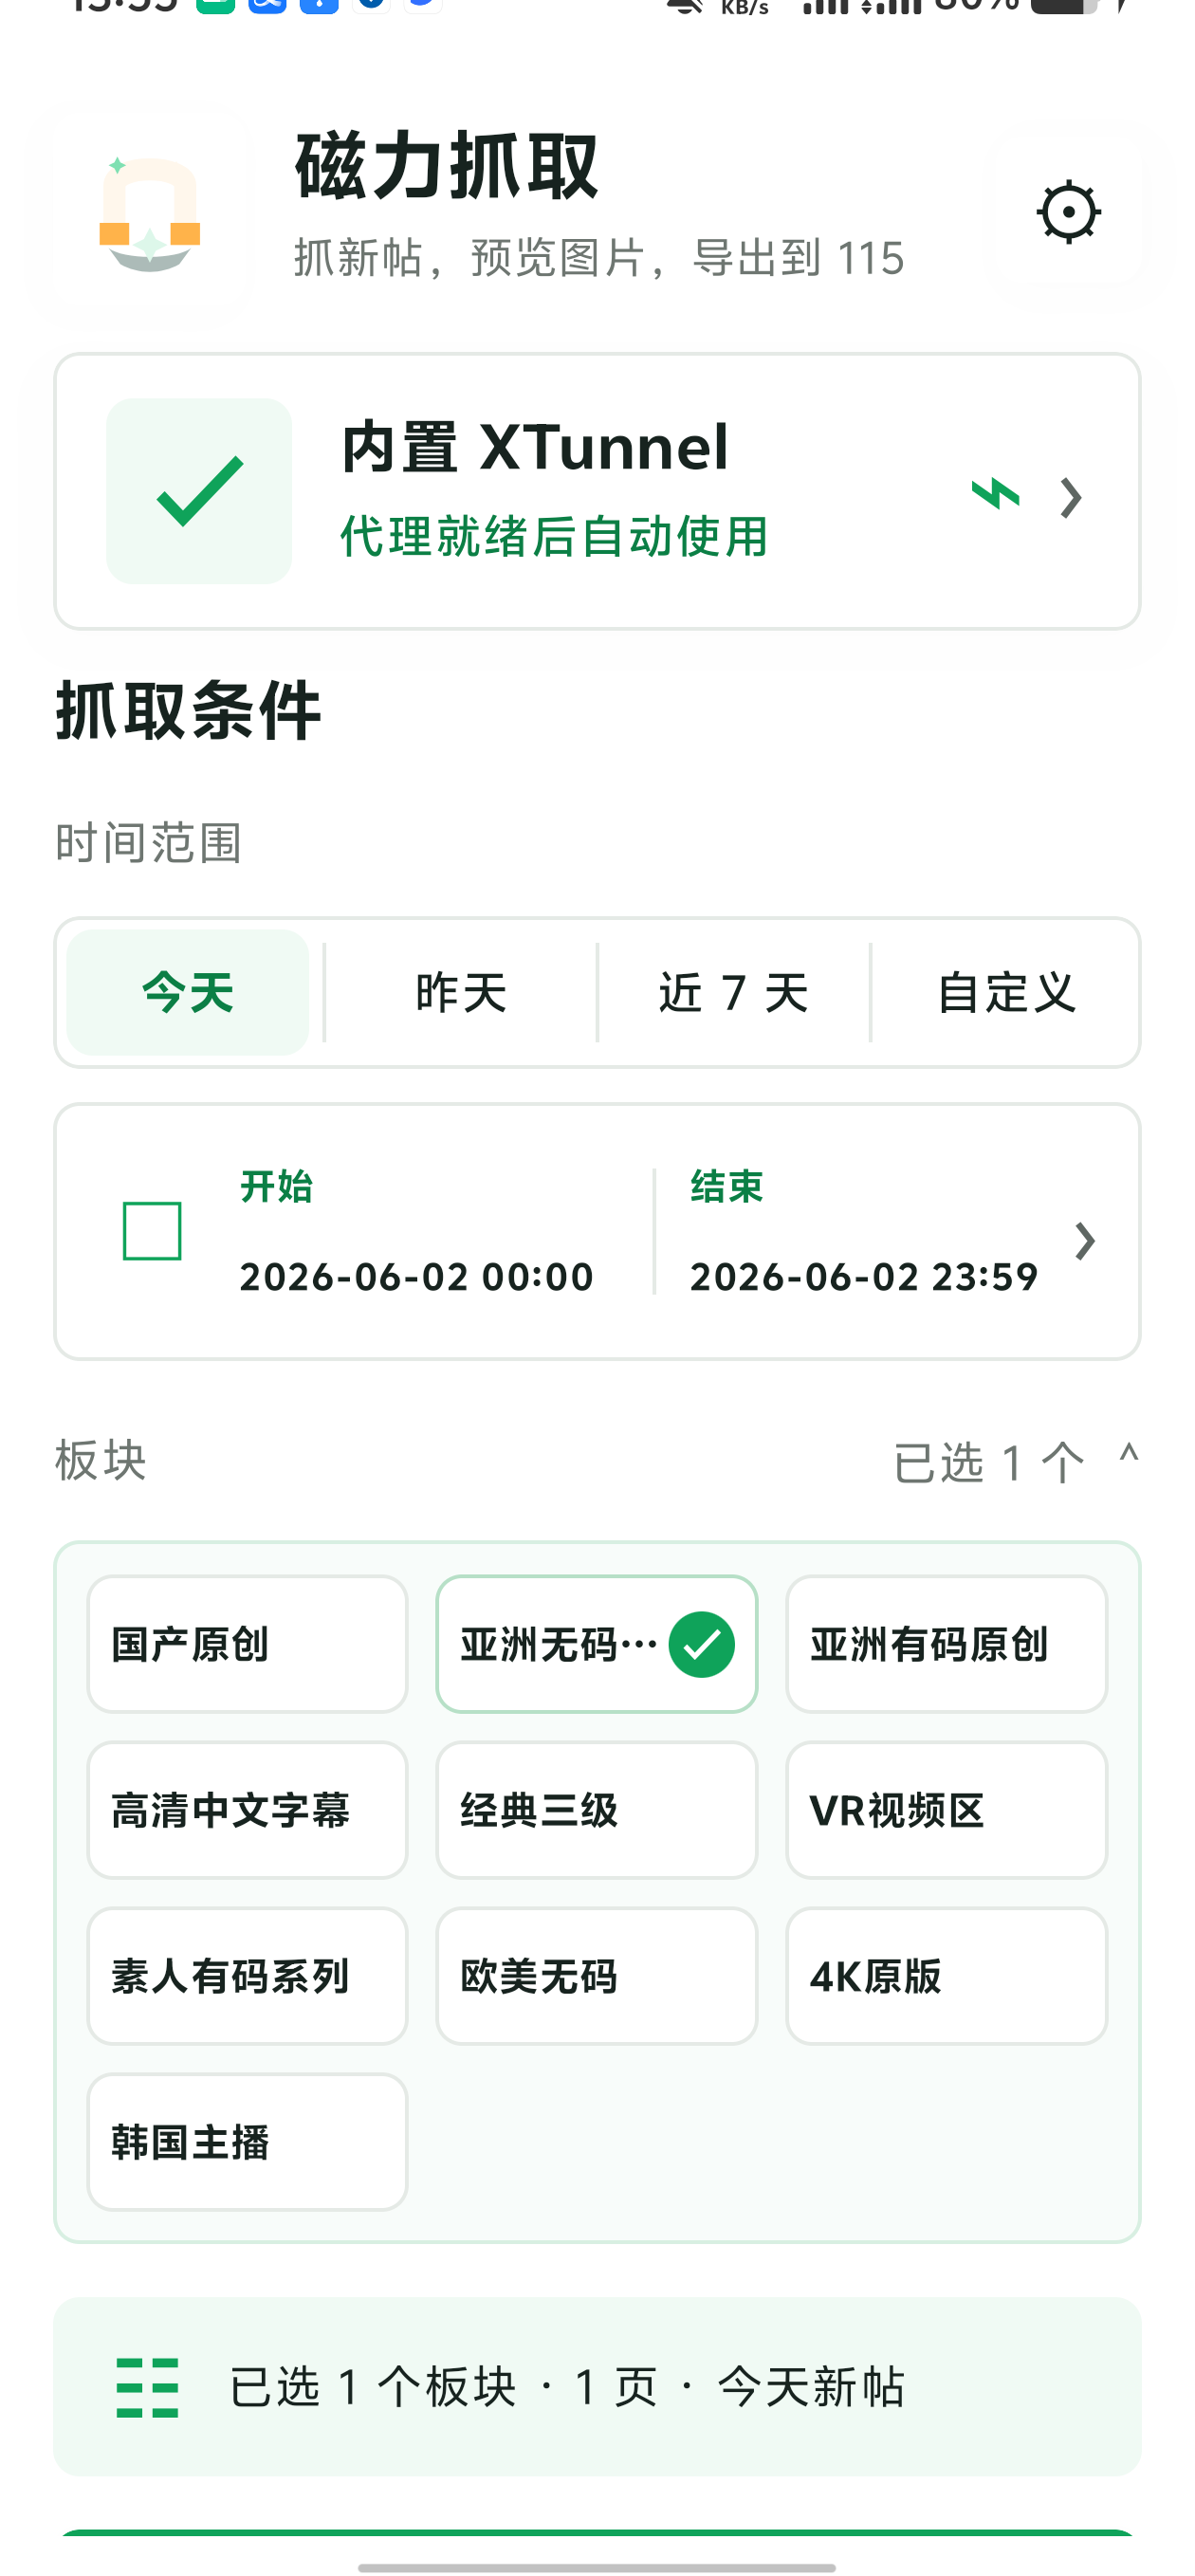
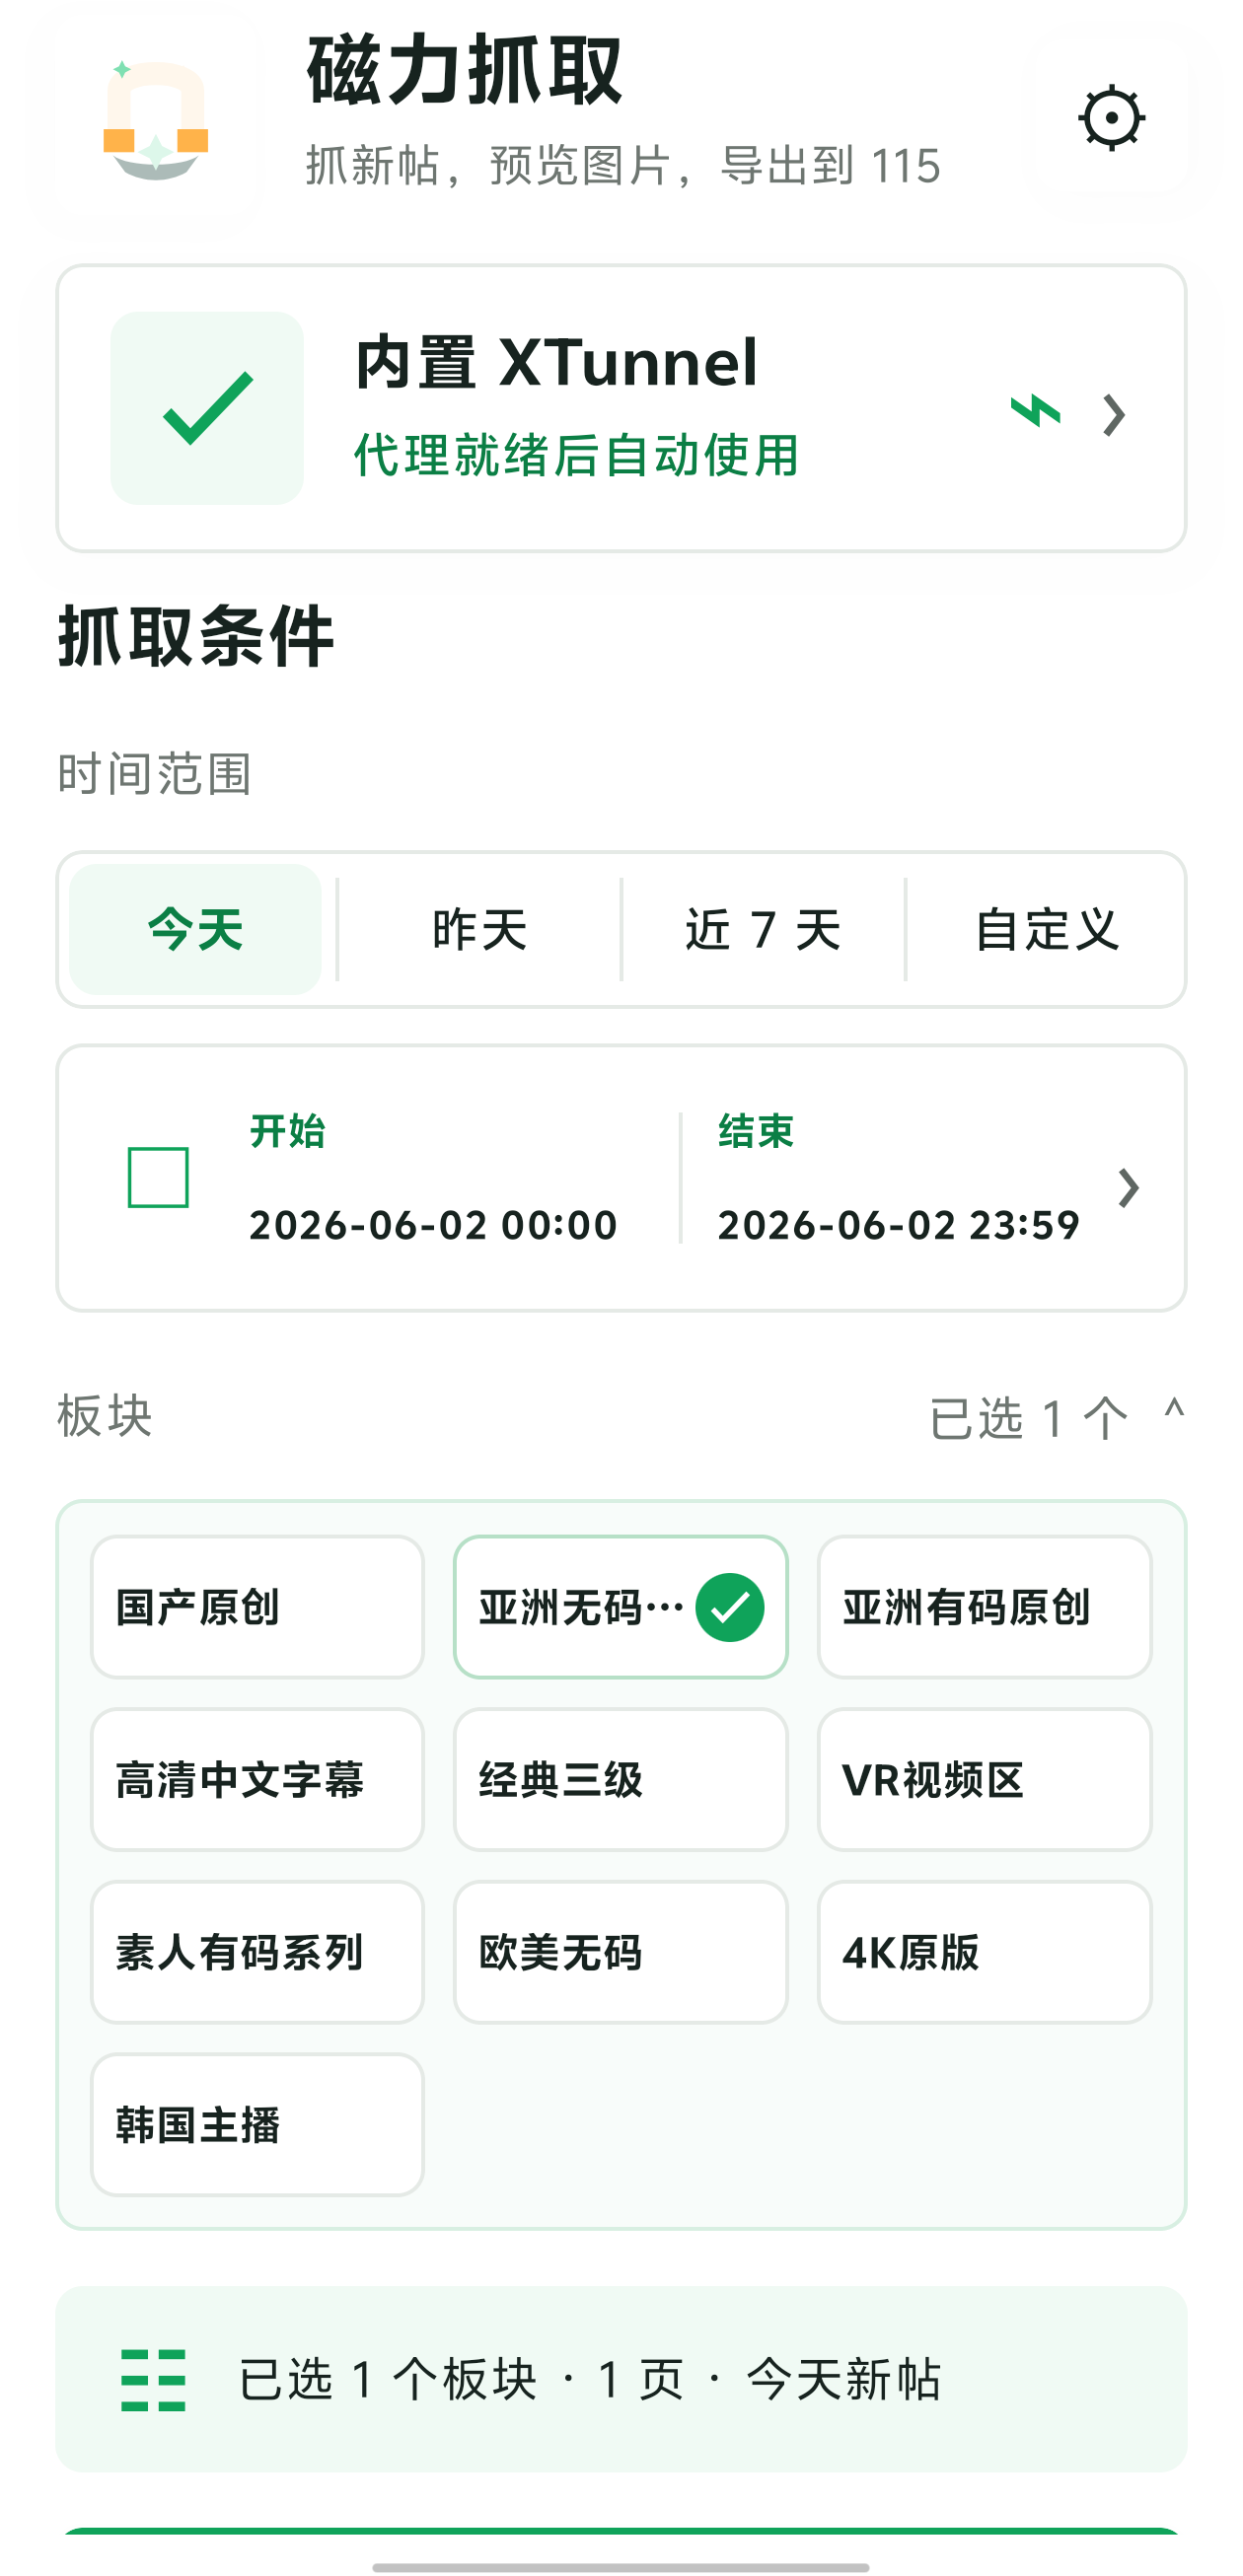
Refine public README

diff --git a/README.md b/README.md
@@ -1,273 +1,111 @@
 # MagnetCatcher
 
-`MagnetCatcher` 是一个 Android Gradle + Kotlin + Jetpack Compose 应用，用于在手机端选择论坛板块、按发帖时间抓取新帖、预览帖子图片、打开原帖，并导出可供 115 批量导入的磁力文本。
+<p align="center">
+  <a href="https://github.com/tttt123445/sehuatang_apk_search/releases"><img src="https://img.shields.io/badge/download-latest_release-0B8F5A?style=for-the-badge" alt="Download latest release"></a>
+</p>
 
-当前仓库已经迁移到标准 Android 单模块工程：根目录只负责 Gradle 配置，业务代码集中在 `app/` 模块。旧的 `android_app/` Java 工程已经移除，后续构建和维护都以 `./gradlew :app:assembleDebug` 为准。
+<p align="center">
+  <img src="https://img.shields.io/badge/platform-Android_7.0+-3DDC84?logo=android&logoColor=white" alt="Android 7.0+">
+  <img src="https://img.shields.io/badge/Kotlin-Compose-7F52FF?logo=kotlin&logoColor=white" alt="Kotlin Compose">
+  <img src="https://img.shields.io/badge/build-Gradle-02303A?logo=gradle&logoColor=white" alt="Gradle">
+  <img src="https://img.shields.io/badge/ABI-arm64--v8a-2B6CB0" alt="arm64-v8a">
+</p>
 
-## 运行截图
+MagnetCatcher 是一个 Android 端磁力链接整理工具。它把论坛新帖抓取、图片预览、原帖跳转、链接去重和 115 批量导出放在同一个移动端流程里，适合需要在手机上快速筛选并整理磁力文本的场景。
 
-![MagnetCatcher 运行截图](docs/screenshots/android-ui-final-running.png)
+本仓库提供可直接安装的 APK Release 包，也开放 Kotlin、Jetpack Compose、OkHttp 和 NDK/JNI 相关源码，方便审阅、学习和二次开发。
 
-## 核心能力
+<p align="center">
+  <img src="docs/screenshots/android-ui-final-running.png" width="360" alt="MagnetCatcher Android 界面截图">
+</p>
 
-- 板块选择：内置常用 BT 区板块，并持久化用户选择。
-- 时间抓取：支持今天、昨天、近 7 天和自定义起始日期。
-- 帖子解析：抓取列表页，再并发进入帖子页解析标题、发布时间、磁力和图片。
-- 图片体验：结果缩略图、全屏预览、上一张/下一张、失败重试和原帖跳转。
-- 导出流程：所选磁力去重后按批次复制或通过 Android 分享导出。
-- 网络模式：默认使用系统 VPN/直连，可选启用内置 XTunnel，本地代理就绪后才切换。
-- 本地缓存：保存最近抓取结果、Cookie、用户设置和图片缓存。
+## 获取安装包
 
-## 架构图
+推荐直接使用 Release 包：
+
+1. 打开 [Releases](https://github.com/tttt123445/sehuatang_apk_search/releases)。
+2. 下载 `magnet-catcher.apk`。
+3. 在 Android 设备上允许安装未知来源应用。
+4. 安装后打开「磁力抓取 新版」。
+
+当前公开包面向 `arm64-v8a` 设备，要求 Android 7.0 或更高版本。
+
+## 功能亮点
+
+| 能力 | 说明 |
+| --- | --- |
+| 时间抓取 | 支持今天、昨天、近 7 天和自定义起始日期，适合按发帖时间筛选新内容。 |
+| 板块选择 | 内置常用板块，选择结果会自动保存，下次打开继续使用。 |
+| 帖子解析 | 先解析列表页，再进入帖子页提取标题、发布时间、摘要、磁力链接和图片地址。 |
+| 图片预览 | 支持缩略图、图片预览、上一张/下一张、失败重试和原帖跳转。 |
+| 批量导出 | 自动去重磁力链接，并按每批 50 条生成文本，便于复制或分享到 115。 |
+| 网络模式 | 默认使用系统 VPN/直连，也可启用内置 XTunnel；异常时会回退到系统网络。 |
+| 本地缓存 | 保存最近抓取结果、Cookie、用户设置和图片缓存，减少重复操作。 |
+
+## 使用流程
 
 ```mermaid
-flowchart TD
-    User["用户操作"]
-    Activity["MainActivity"]
-    Compose["MagnetCatcherApp / Compose UI"]
-    VM["MainViewModel"]
-    Repo["CrawlerRepository"]
-    Data["SettingsStore / CookieStore / LibraryStore / ImageCache"]
-    Http["CrawlerHttpClient (OkHttp)"]
-    Parsers["ForumParser / ThreadParser / DateParser / UrlTools / HtmlText"]
-    XTunnel["XTunnelManager"]
-    Native["XTunnelNative + xtbridge.c"]
-    LibGo["libgo.so + embed.data"]
-    Site["论坛页面 / 图片资源"]
-    Export["Clipboard / Android Share"]
-
-    User --> Activity
-    Activity --> Compose
-    Compose --> VM
-    VM --> Repo
-    VM --> Data
-    VM --> Export
-    Repo --> Data
-    Repo --> Http
-    Repo --> Parsers
-    Http --> Data
-    Http --> XTunnel
-    XTunnel --> Native
-    Native --> LibGo
-    Http --> Site
-    Parsers --> Repo
+flowchart LR
+    A["选择时间范围"] --> B["选择板块"]
+    B --> C["开始抓取"]
+    C --> D["预览图片和原帖"]
+    D --> E["取消不需要的结果"]
+    E --> F["复制或分享导出文本"]
 ```
 
-## 项目结构
+1. 选择抓取时间范围，例如今天、昨天、近 7 天或自定义日期。
+2. 选择需要关注的板块。
+3. 点击开始抓取，等待列表页和帖子页解析完成。
+4. 在结果列表中预览图片、打开原帖或取消不需要的帖子。
+5. 使用复制到 115 或分享导出生成磁力文本。
 
-```text
-.
-├── README.md
-├── build.gradle.kts
-├── settings.gradle.kts
-├── gradlew
-├── gradle/
-├── app/
-│   ├── build.gradle.kts
-│   └── src/
-│       ├── main/
-│       │   ├── AndroidManifest.xml
-│       │   ├── jni/
-│       │   ├── kotlin/com/example/magnetcatcher/
-│       │   └── res/
-│       └── test/kotlin/com/example/magnetcatcher/
-├── docs/
-└── openspec/
+## 技术栈
+
+- Kotlin + Jetpack Compose：负责 Android 原生界面和状态管理。
+- OkHttp + Kotlin Coroutines：负责抓取请求、图片请求、重试和并发调度。
+- Coil：负责图片加载与缓存展示。
+- SharedPreferences + 本地 JSON：保存设置、Cookie 和最近结果。
+- NDK/JNI：桥接内置 XTunnel 运行时。
+- Gradle Android Plugin：管理单模块 Android 工程构建。
+
+## 源码构建
+
+只想安装使用时，建议下载 Release APK。源码构建适合需要审阅代码、修改逻辑或自行打包的开发者。
+
+```bash
+git clone https://github.com/tttt123445/sehuatang_apk_search.git
+cd sehuatang_apk_search
+./gradlew :app:test
+./gradlew :app:assembleDebug
 ```
 
-## 文件作用
-
-### 根目录
-
-| 文件 | 作用 |
-| --- | --- |
-| `README.md` | 项目说明、架构图、运行截图、构建方式和文件清单。 |
-| `.gitignore` | 忽略本地密钥、构建产物、Gradle 缓存、release 输出和临时文件。 |
-| `settings.gradle.kts` | 定义 Gradle 插件仓库、依赖仓库、根工程名 `MagnetCatcher`，并引入 `:app` 模块。 |
-| `build.gradle.kts` | 根工程 Gradle 配置，声明 Android、Compose 和 Kotlin 插件版本入口。 |
-| `gradlew` | Gradle Wrapper 启动脚本，用于在本机执行构建和测试。 |
-| `gradle/libs.versions.toml` | 统一管理 AGP、Kotlin、Compose、OkHttp、Coil、JUnit 等依赖版本。 |
-| `gradle/wrapper/gradle-wrapper.properties` | Gradle Wrapper 的发行版和下载配置。 |
-
-### Android 应用模块
-
-| 文件 | 作用 |
-| --- | --- |
-| `app/build.gradle.kts` | Android 应用模块配置，声明 SDK/NDK、Compose、依赖、JNI 构建和 XTunnel 本地文件复制任务。 |
-| `app/src/main/AndroidManifest.xml` | Android 清单文件，声明网络权限、外部浏览器查询、应用图标、主题和 `MainActivity`。 |
-| `app/src/main/jni/Android.mk` | NDK build 配置，编译 `xtbridge` JNI 动态库。 |
-| `app/src/main/jni/Application.mk` | NDK ABI 和最低平台配置，目前只构建 `arm64-v8a`。 |
-| `app/src/main/jni/xtbridge.c` | JNI 桥接代码，通过 `dlopen/dlsym` 调用 XTunnel `libgo.so` 暴露的启动、停止、状态和配置函数。 |
-
-### Kotlin 入口和常量
-
-| 文件 | 作用 |
-| --- | --- |
-| `app/src/main/kotlin/com/example/magnetcatcher/MainActivity.kt` | Android Activity 入口，加载 Compose UI，并处理 Toast、复制、分享和外部打开链接事件。 |
-| `app/src/main/kotlin/com/example/magnetcatcher/AppConstants.kt` | 全局常量，包括基础 URL、直连 URL、超时、代理端口、导出批大小、缩略图尺寸和 XTunnel 参数。 |
-
-### 数据模型
-
-| 文件 | 作用 |
-| --- | --- |
-| `app/src/main/kotlin/com/example/magnetcatcher/model/Models.kt` | 定义板块、帖子引用、抓取结果项、导出批次、抓取请求和失败统计等业务模型。 |
-| `app/src/main/kotlin/com/example/magnetcatcher/model/StatusUpdate.kt` | 定义状态提示的等级和状态卡片更新数据。 |
-
-### 数据存储
-
-| 文件 | 作用 |
-| --- | --- |
-| `app/src/main/kotlin/com/example/magnetcatcher/data/SettingsStore.kt` | 基于 `SharedPreferences` 保存网络模式、代理端口、抓取页数、起始时间、板块选择和板块列表。 |
-| `app/src/main/kotlin/com/example/magnetcatcher/data/CookieStore.kt` | 保存并拼装 HTTP Cookie，供抓取请求和 WebView 原帖打开复用。 |
-| `app/src/main/kotlin/com/example/magnetcatcher/data/LibraryStore.kt` | 将最近抓取到的帖子列表保存到应用私有目录 `library.json`，启动时恢复结果。 |
-| `app/src/main/kotlin/com/example/magnetcatcher/data/ImageCache.kt` | 图片内存缓存和磁盘缓存，支持采样解码，并用临时文件避免写入半截缓存。 |
-
-### 业务和网络
-
-| 文件 | 作用 |
-| --- | --- |
-| `app/src/main/kotlin/com/example/magnetcatcher/domain/CrawlerRepository.kt` | 抓取主流程：检查访问、构造列表页 URL、解析帖子引用、并发抓取帖子详情、按时间过滤并保存结果。 |
-| `app/src/main/kotlin/com/example/magnetcatcher/domain/ExportFormatter.kt` | 将所选帖子里的磁力去重、分页分批，生成复制或分享给 115 的纯文本。 |
-| `app/src/main/kotlin/com/example/magnetcatcher/network/CrawlerHttpClient.kt` | OkHttp 封装，负责 HTML 和图片请求、默认请求头、Cookie 收集、重试、响应大小限制和代理切换。 |
-| `app/src/main/kotlin/com/example/magnetcatcher/network/HttpRuntime.kt` | 定义 Cookie 存储和代理控制接口，降低网络层对具体存储/XTunnel 实现的耦合。 |
-
-### HTML/URL 解析
-
-| 文件 | 作用 |
-| --- | --- |
-| `app/src/main/kotlin/com/example/magnetcatcher/parser/ForumParser.kt` | 解析论坛列表页里的帖子链接、标题、发布时间和置顶状态，也能从移动端 JSON 中提取板块列表。 |
-| `app/src/main/kotlin/com/example/magnetcatcher/parser/ThreadParser.kt` | 解析帖子页标题、发布时间、正文摘要、磁力链接和图片地址。 |
-| `app/src/main/kotlin/com/example/magnetcatcher/parser/DateParser.kt` | 统一处理 `2026-06-02 00:00`、今天/昨天/前天、几分钟前等时间格式，并转换为上海时区时间戳。 |
-| `app/src/main/kotlin/com/example/magnetcatcher/parser/HtmlText.kt` | HTML 文本清洗、实体解码、正则首匹配、整数解析和磁力链接规范化工具。 |
-| `app/src/main/kotlin/com/example/magnetcatcher/parser/UrlTools.kt` | URL 绝对化、原帖直连域名转换、图片候选 URL 生成和 thread id 提取。 |
-
-### Compose UI
-
-| 文件 | 作用 |
-| --- | --- |
-| `app/src/main/kotlin/com/example/magnetcatcher/ui/MagnetCatcherApp.kt` | Compose 应用根组件，配置 Material 主题，收集弹窗状态并挂载主界面、预览、原帖 WebView 和日期选择器。 |
-| `app/src/main/kotlin/com/example/magnetcatcher/ui/MainScreen.kt` | 主屏幕布局，组合顶部标题、网络卡片、抓取条件、结果概览、开发者选项和帖子列表。 |
-| `app/src/main/kotlin/com/example/magnetcatcher/ui/MainViewModel.kt` | UI 状态和交互中枢，负责设置保存、抓取任务、XTunnel 预热、图片预览、原帖打开、复制和分享事件。 |
-| `app/src/main/kotlin/com/example/magnetcatcher/ui/MainUiState.kt` | 主界面、网络面板、抓取面板、结果面板、开发者面板和弹窗的 UI state 定义。 |
-| `app/src/main/kotlin/com/example/magnetcatcher/ui/CapturePanel.kt` | 抓取条件区域，包括时间范围分段控件、日期选择、板块选择和开始抓取按钮。 |
-| `app/src/main/kotlin/com/example/magnetcatcher/ui/ResultsPanel.kt` | 结果概览、开发者选项、导出按钮、帖子卡片、缩略图加载和结果统计。 |
-| `app/src/main/kotlin/com/example/magnetcatcher/ui/Dialogs.kt` | 图片预览弹窗、原帖 WebView 弹窗、Cookie 注入和 WebView 代理覆盖。 |
-| `app/src/main/kotlin/com/example/magnetcatcher/ui/CommonUi.kt` | 复用的卡片、标签和数字输入框组件。 |
-| `app/src/main/kotlin/com/example/magnetcatcher/ui/ThreadWebViewConfig.kt` | 原帖 WebView 的代理规则、Cookie 目标域和 Cookie header 拆分逻辑。 |
-
-### XTunnel
-
-| 文件 | 作用 |
-| --- | --- |
-| `app/src/main/kotlin/com/example/magnetcatcher/xtunnel/XTunnelNative.kt` | 加载 `libgo.so` 和 `libxtbridge.so`，声明 JNI external 方法。 |
-| `app/src/main/kotlin/com/example/magnetcatcher/xtunnel/XTunnelManager.kt` | 管理内置 XTunnel 生命周期、单飞启动、端口健康检查、失败冷却、代理对象和直连回退提示。 |
-
-### Android 资源
-
-| 文件 | 作用 |
-| --- | --- |
-| `app/src/main/res/drawable/ic_magnet_logo.xml` | 应用内顶部展示的磁力 Logo 矢量图。 |
-| `app/src/main/res/drawable/ic_launcher_foreground.xml` | 启动图标前景矢量资源。 |
-| `app/src/main/res/values/colors.xml` | Android 图标和主题相关颜色。 |
-| `app/src/main/res/values/styles.xml` | 应用主题样式，关闭 ActionBar 并适配 Compose Activity。 |
-| `app/src/main/res/mipmap-anydpi/ic_launcher.xml` | 自适应启动图标配置。 |
-| `app/src/main/res/mipmap-anydpi/ic_launcher_round.xml` | 自适应圆形启动图标配置。 |
-| `app/src/main/res/mipmap-anydpi-v26/ic_launcher.xml` | Android 8.0+ 自适应启动图标配置。 |
-| `app/src/main/res/mipmap-anydpi-v26/ic_launcher_round.xml` | Android 8.0+ 圆形自适应启动图标配置。 |
-
-### 单元测试
-
-| 文件 | 作用 |
-| --- | --- |
-| `app/src/test/kotlin/com/example/magnetcatcher/domain/ExportFormatterTest.kt` | 覆盖磁力去重和批次导出行为。 |
-| `app/src/test/kotlin/com/example/magnetcatcher/network/CrawlerHttpClientTest.kt` | 覆盖请求头、Cookie 收集、默认 Referer 和 HTML 响应大小限制。 |
-| `app/src/test/kotlin/com/example/magnetcatcher/parser/DateParserTest.kt` | 覆盖中文日期规范化、相对时间解析和预设起始时间。 |
-| `app/src/test/kotlin/com/example/magnetcatcher/parser/ForumParserTest.kt` | 覆盖列表页帖子解析和移动端 JSON 板块解析。 |
-| `app/src/test/kotlin/com/example/magnetcatcher/parser/ThreadParserTest.kt` | 覆盖帖子标题、磁力、图片和标题兜底解析。 |
-| `app/src/test/kotlin/com/example/magnetcatcher/ui/ThreadWebViewConfigTest.kt` | 覆盖 WebView Cookie 目标域、Cookie 拆分和代理开关规则。 |
-
-### 文档和截图
-
-| 文件 | 作用 |
-| --- | --- |
-| `docs/mockups/android-ui-redesign-half.svg` | Android UI 改版过程中的半屏设计稿。 |
-| `docs/screenshots/android-ui-current.png` | 当前主界面状态截图。 |
-| `docs/screenshots/android-ui-date-picker.png` | 日期选择器运行截图。 |
-| `docs/screenshots/android-ui-final-installed.png` | APK 安装后验证截图。 |
-| `docs/screenshots/android-ui-final-running.png` | README 中使用的最终运行截图。 |
-| `docs/screenshots/android-ui-fixed-final.png` | 修复后的最终主界面截图。 |
-| `docs/screenshots/android-ui-fixed-running.png` | 修复后的运行状态截图。 |
-| `docs/screenshots/android-ui-forum-collapsed.png` | 板块折叠状态截图。 |
-| `docs/screenshots/android-ui-interactions.png` | 交互状态验证截图。 |
-| `docs/screenshots/android-ui-network-system.png` | 系统 VPN/直连网络模式截图。 |
-| `docs/screenshots/android-ui-network-toggle.png` | 网络模式切换截图。 |
-| `docs/screenshots/android-ui-selection-restored.png` | 帖子/板块选择恢复状态截图。 |
-
-### OpenSpec 记录
-
-| 文件 | 作用 |
-| --- | --- |
-| `openspec/changes/optimize-android-crawl-ux/proposal.md` | 记录 Android 抓取体验优化的目标、范围和成功标准。 |
-| `openspec/changes/optimize-android-crawl-ux/design.md` | 记录迁移到 Gradle/Compose、XTunnel 启动、代理回退和图片缓存等设计决策。 |
-| `openspec/changes/optimize-android-crawl-ux/tasks.md` | 跟踪迁移、修复、构建和真机验证任务。 |
-| `openspec/changes/optimize-android-crawl-ux/specs/android-crawler/spec.md` | 行为规格增量，描述 XTunnel 就绪、忙碌状态、结果统计和图片预览等要求。 |
-
-### 本地忽略文件
-
-这些文件只用于本机开发或构建，不会提交到 Git：
-
-| 路径 | 作用 |
-| --- | --- |
-| `.secrets/` | 本地 Cookie、代理或其他敏感配置。 |
-| `out/` | 本地 APK 分析、XTunnel 提取文件、release 包和临时产物。 |
-| `.gradle/`、`.kotlin/` | Gradle/Kotlin 本地缓存。 |
-| `app/build/` | Android 构建产物。 |
-| `core`、`coverage.out`、`*.test` | 本地调试、崩溃和测试产物。 |
-| `local.properties` | Android SDK 本机路径配置。 |
-
-## 构建 APK
-
-构建前需要本机已经配置 Android SDK/NDK，并准备好从 XTunnel APK 提取出的本地文件：
+本地构建前需要准备 Android SDK、NDK，并放置 XTunnel 运行所需的本地文件：
 
 ```text
 out/apk-inspect/xtunnel/extract/lib/arm64-v8a/libgo.so
 out/apk-inspect/xtunnel/extract/assets/flutter_assets/assets/embed.data
 ```
 
-这些文件只用于本地打包，已经被 `.gitignore` 忽略，不会上传到 GitHub。
+这些文件属于本机打包依赖，不会提交到 GitHub。仓库中的 `.gitignore` 已经忽略本地构建产物、缓存、密钥和 release 输出目录。
 
-执行构建：
-
-```sh
-./gradlew :app:assembleDebug
-```
-
-构建完成后输出：
+## 项目结构
 
 ```text
-app/build/outputs/apk/debug/app-debug.apk
+.
+├── app/                  # Android 应用模块
+├── docs/                 # 截图、设计稿和验证素材
+├── gradle/               # Gradle Wrapper 与版本目录
+├── openspec/             # 功能变更记录和规格说明
+├── build.gradle.kts      # 根工程构建配置
+├── settings.gradle.kts   # Gradle 仓库和模块配置
+└── README.md             # 公开项目说明
 ```
 
-## 安装和运行
+核心业务代码位于 `app/src/main/kotlin/com/example/magnetcatcher/`，按 `data`、`domain`、`network`、`parser`、`ui` 和 `xtunnel` 分层组织。
 
-通过 ADB 安装：
+## 隐私与边界
 
-```sh
-adb install -r app/build/outputs/apk/debug/app-debug.apk
-```
-
-运行后按以下流程使用：
-
-1. 打开应用「磁力抓取 新版」。
-2. 默认使用系统 VPN/直连；如需内置代理，在开发者选项中启用 XTunnel。
-3. 选择抓取时间范围和板块。
-4. 点击「开始抓取」。
-5. 在结果列表中预览图片、打开原帖，取消不需要的帖子。
-6. 点击「复制到 115」或「分享/导出」。
-
-## 常用命令
-
-```sh
-./gradlew :app:testDebugUnitTest
-./gradlew :app:assembleDebug
-```
+- 仓库不包含本地 Cookie、代理配置、构建缓存或个人路径。
+- 应用设置、Cookie、图片缓存和最近抓取结果保存在 Android 应用本地存储中。
+- 使用前请确认目标站点规则、当地法律法规和个人使用场景允许该行为。
+- 如果抓取失败，优先检查网络模式、系统 VPN/代理状态和 Cookie 是否可用。